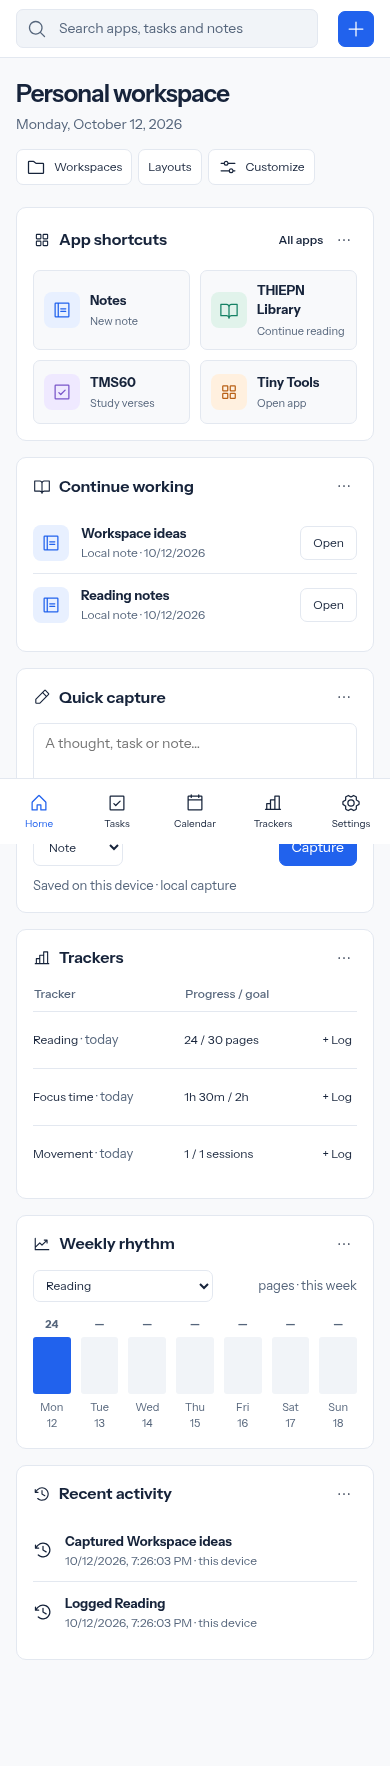
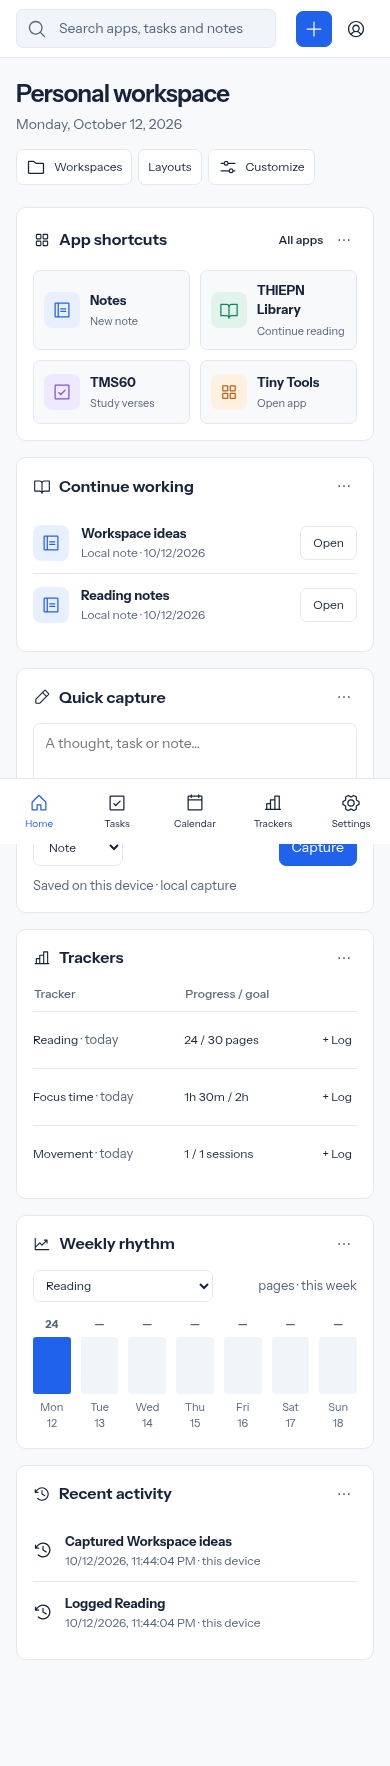
Preserve Library's trusted Home host with a private reading dialog

Changed region(s): [[0.7385, 0.0, 0.9538, 0.0311], [0.3692, 0.872, 0.4, 0.9343]]

diff --git a/tests/hub-reading-pilot/desktop.spec.ts b/tests/hub-reading-pilot/desktop.spec.ts
@@ -2,7 +2,7 @@ import {test,expect} from '@playwright/test';
 import {fixture,seed,join,connect,book} from './fixture';
 test('join is optional, creates no owner load; absent consent yields no reading metadata',async({page})=>{
  const f=await fixture(page);await expect(page.locator('[data-private-library]')).toBeHidden();
- expect(f.calls.some(c=>c.url.includes('/library/hub/bridge'))).toBe(false);expect(await page.evaluate(()=>(window as any).__opens)).toEqual([]);
+ expect(f.calls.some(c=>c.url.includes('/library/hub/bridge'))).toBe(false);expect(await page.evaluate(()=>(window as any).__opens.filter((name:string)=>name!=='thiepn-adaptive-workspace'))).toEqual([]);
  await join(page);expect(f.calls.some(c=>c.url.includes('/library/hub/bridge'))).toBe(false);
  await page.getByRole('button',{name:'Connect this browser',exact:true}).click();await expect(page.locator('[data-library-status]')).toContainText('Choose sharing');await expect(page.locator('[data-library-items]')).toBeEmpty();await expect(page.locator('[data-library-empty]')).toBeHidden();
 });
@@ -14,12 +14,12 @@ test('actual device metadata resumes the exact revision with no cloud calls, wri
  await page.setViewportSize({width:320,height:900});expect(await page.evaluate(()=>document.documentElement.scrollWidth)).toBeLessThanOrEqual(320);await page.locator('[data-library-items] a').first().focus();await expect(page.locator('[data-library-items] a').first()).toBeFocused();
  await page.addScriptTag({path:process.env.AXE_PATH||'/tmp/audit-tools/node_modules/axe-core/axe.min.js'});expect(await page.evaluate(async()=>{const r=await (window as any).axe.run(document,{runOnly:{type:'tag',values:['wcag2a','wcag2aa','wcag21aa','wcag22aa']}});return r.violations.map((v:any)=>({id:v.id,targets:v.nodes.map((n:any)=>n.target)}));})).toEqual([]);
  expect(f.calls.every(c=>c.method==='GET'&&new URL(c.url).origin==='https://thiepn.dev')).toBe(true);
- expect(await page.evaluate(()=>(window as any).__opens)).toEqual([]);expect(await page.evaluate(()=>JSON.stringify((window as any).__results))).not.toContain('SECRET');
+ expect(await page.evaluate(()=>(window as any).__opens.filter((name:string)=>name!=='thiepn-adaptive-workspace'))).toEqual([]);expect(await page.evaluate(()=>JSON.stringify((window as any).__results))).not.toContain('SECRET');
  expect(await page.evaluate(()=>Object.values(localStorage).join('')+Object.values(sessionStorage).join(''))).not.toContain(book.title);
 });
 test('ending, masking and reloading never restore a reading snapshot automatically',async({page})=>{
  await fixture(page);await seed(page);await connect(page);await page.getByRole('button',{name:'End pilot and clear this tab',exact:true}).click();await expect(page.locator('[data-library-items]')).toBeEmpty();await expect(page.locator('iframe')).toHaveCount(0);
- await connect(page);await page.getByRole('button',{name:'Hide Home',exact:true}).click();await page.getByRole('button',{name:'Show Home',exact:true}).click();await expect(page.locator('[data-private-library]')).toBeHidden();await expect(page.locator('[data-library-items]')).toBeEmpty();
+ await connect(page);await page.getByRole('button',{name:'Hide personal content',exact:true}).click();await page.getByRole('button',{name:'Show personal content',exact:true}).click();await expect(page.locator('[data-private-library]')).toBeHidden();await expect(page.locator('[data-library-items]')).toBeEmpty();
  await page.reload();await expect(page.locator('[data-private-library]')).toBeHidden();await expect(page.locator('iframe')).toHaveCount(0);
 });
 test('pause and configuration outage fail closed before the next owner read',async({page})=>{
@@ -27,7 +27,7 @@ test('pause and configuration outage fail closed before the next owner read',asy
  f.fail();await page.getByRole('button',{name:'Try reading pilot',exact:true}).click();await expect(page.locator('[data-reading-pilot-status]')).toContainText('unavailable or paused');await expect(page.locator('iframe')).toHaveCount(0);
 });
 test('late join and read controls cannot reopen or read after ending',async({page})=>{
- const f=await fixture(page);f.hold();await page.getByRole('button',{name:'Try reading pilot',exact:true}).click();await page.getByRole('button',{name:'Hide Home',exact:true}).click();f.release();await page.getByRole('button',{name:'Show Home',exact:true}).click();await expect(page.locator('[data-private-library]')).toBeHidden();await expect(page.locator('iframe')).toHaveCount(0);
+ const f=await fixture(page);f.hold();await page.getByRole('button',{name:'Try reading pilot',exact:true}).click();await page.getByRole('button',{name:'Hide personal content',exact:true}).click();f.release();await page.getByRole('button',{name:'Show personal content',exact:true}).click();await expect(page.locator('[data-private-library]')).toBeHidden();await expect(page.locator('iframe')).toHaveCount(0);
  await seed(page);await connect(page);const before=f.calls.filter(c=>c.url.includes('/reading-pilot.json')).length;f.hold();await page.getByRole('button',{name:'Connect this browser',exact:true}).click();await expect.poll(()=>f.calls.filter(c=>c.url.includes('/reading-pilot.json')).length).toBe(before+1);
  await page.getByRole('button',{name:'End pilot and clear this tab',exact:true}).click();await join(page);const response=page.waitForResponse(r=>new URL(r.url()).pathname==='/reading-pilot.json');f.release();await (await response).finished();await page.evaluate(()=>new Promise<void>(resolve=>requestAnimationFrame(()=>requestAnimationFrame(()=>resolve()))));await expect(page.locator('[data-private-library]')).toBeVisible();await expect(page.locator('[data-library-items]')).toBeEmpty();await expect(page.locator('iframe')).toHaveCount(0);
 });
@@ -51,4 +51,7 @@ test('connection controls stay busy during a delayed check and exit cancels it',
  await page.getByRole('button',{name:'End pilot and clear this tab',exact:true}).click();await join(page);
  await expect(page.locator('[data-library-connect]')).toBeEnabled();f.release();
  await expect(page.locator('[data-library-items]')).toBeEmpty();await expect(page.locator('iframe')).toHaveCount(0);
+});
+test('closing the reading dialog clears its snapshot and owner frame',async({page})=>{
+ await fixture(page);await seed(page);await connect(page);await page.locator('[data-account-dialog] [data-action=close-account]').click();await expect(page.locator('iframe')).toHaveCount(0);await expect(page.locator('[data-library-items]')).toBeEmpty();await page.locator('.ws-topbar [data-action=account]').click();await expect(page.locator('[data-private-library]')).toBeHidden();await expect(page.locator('[data-library-items]')).toBeEmpty();
 });

diff --git a/src/scripts/portal-library.ts b/src/scripts/portal-library.ts
@@ -4,6 +4,7 @@ import { HubLibrarySession, libraryContinueUrl } from '../lib/hub-library-sessio
 import type { Operation } from '../lib/providers/types';
 const root = document.querySelector<HTMLElement>('[data-private-library]');
 if (root) {
+  const hostDialog = root.closest<HTMLDialogElement>('dialog');
   const pilot = root.dataset.libraryPilot === 'v1';
   const pilotRoot = root.closest<HTMLElement>('[data-reading-pilot]');
   const join = pilotRoot?.querySelector<HTMLButtonElement>('[data-reading-pilot-join]');
@@ -12,7 +13,7 @@ if (root) {
   let pending: symbol | undefined;
   let joined = false, pilotTimer: ReturnType<typeof setInterval> | undefined;
   const eligible = !pilot || READING_PILOT_MOBILE_ENABLED || desktopReadingPilot(navigator.userAgent, navigator.platform, navigator.maxTouchPoints);
-  const available = () => !root!.hidden && !document.hidden && (!pilot || (joined && eligible && !pilotRoot?.hidden));
+  const available = () => (!hostDialog || hostDialog.open) && !root!.hidden && !document.hidden && (!pilot || (joined && eligible && !pilotRoot?.hidden));
   function endPilot(message = 'Pilot ended. This tab’s reading snapshot was cleared. To return, try the reading pilot and connect this browser again.') {
     if (!pilot) return; joined = false; clearInterval(pilotTimer); pilotTimer = undefined; root!.hidden = true;
     join!.hidden = false; end!.hidden = true; pilotStatus!.textContent = message; clear();
@@ -54,7 +55,7 @@ if (root) {
     erase('Checking Library progress…'); const epoch = generation; controller = new AbortController();
     try {
       const envelope = await session.read(operation, controller.signal, query);
-      if (epoch !== generation || root!.hidden || document.hidden) return;
+      if (epoch !== generation || !available()) return;
       if (!['ready','empty'].includes(envelope.status) || !envelope.data) throw new Error('Unavailable');
       if(import.meta.env.PUBLIC_HUB_WORKFLOWS_PRIVATE==='staged-v1')integratedWorkflows.publish(envelope);
       for (const item of envelope.data.items) {
@@ -84,7 +85,7 @@ if (root) {
     clear('Checking your Library sharing choices…', true); const epoch = generation; controller = new AbortController(); connect.disabled = true;
     try {
       const consent = await session.connect(controller.signal);
-      if (epoch !== generation || root!.hidden || document.hidden) return;
+      if (epoch !== generation || !available()) return;
       permissions = new Set(consent.permissions.filter(p => !pilot || p === 'summary' || p === 'continue')); controls();
       const initial = permissions.has('summary') ? 'summary' : permissions.has('continue') ? 'continue' : null;
       if (initial) { radios.forEach(r => { r.checked = r.value === initial; }); await load(initial); }
@@ -102,15 +103,16 @@ if (root) {
   window.addEventListener('pageshow', event => { if (event.persisted) { clear(); if (pilot) endPilot(); } });
   document.addEventListener('visibilitychange', () => { if (document.hidden) { clear(); if (pilot) endPilot('Reading cleared when you left Home. Welcome back: try the reading pilot, then connect this browser for fresh progress.'); } controls(); });
   new MutationObserver(() => { if (root!.hidden) clear(); controls(); }).observe(root, { attributes: true, attributeFilter: ['hidden'] });
+  if (hostDialog) new MutationObserver(() => { if (!hostDialog.open) { clear(); if (pilot) endPilot(); } controls(); }).observe(hostDialog, { attributes:true, attributeFilter:['open'] });
   if (pilot) {
     join!.disabled = !eligible;
     if (!eligible) pilotStatus!.textContent = 'This pilot currently supports desktop browsers. Mobile reading remains available in Library.';
     join!.addEventListener('click', () => void (async () => {
-      if (!eligible || pilotRoot?.hidden || document.hidden) return;
+      if (!eligible || pilotRoot?.hidden || document.hidden || (hostDialog && !hostDialog.open)) return;
       join!.disabled = true; const joinEpoch = generation;
       try {
         if (!await checkReadingPilot(AbortSignal.timeout(2000))) throw new Error('Paused');
-        if (joinEpoch !== generation || pilotRoot?.hidden || document.hidden) return;
+        if (joinEpoch !== generation || pilotRoot?.hidden || document.hidden || (hostDialog && !hostDialog.open)) return;
         joined = true; root!.hidden = false; join!.hidden = true; end!.hidden = false;
         pilotStatus!.textContent = 'Joined for this tab. Choose sharing in Library, then connect this browser.';
         pilotTimer = setInterval(() => { void verifyPilot(); }, 30000); controls();

diff --git a/tests/hub-library/session.spec.ts b/tests/hub-library/session.spec.ts
@@ -31,7 +31,7 @@ async function fixture(page: Page) {
     if (fs.existsSync(file)) return route.fulfill({ path: file, contentType: mime(file) });
     return route.fulfill({ status: 404, body: 'Fictional fixture: unavailable' });
   });
-  await page.goto(HUB+'/home/connections/');
+  await page.goto(HUB+'/home/');await page.locator('.ws-topbar [data-action=account]').click();
   await expect(page.locator('[data-private-library]')).toBeVisible();
   return { calls, hold: () => { hold = true; }, release: () => { hold = false; release(); } };
 }
@@ -54,7 +54,7 @@ async function connect(page: Page) { await page.getByRole('button',{name:'Connec
 test('no automatic owner load or reading-storage access; connection without consent reads nothing', async ({page}) => {
   const f = await fixture(page);
   expect(f.calls.some(u => u.includes('/library/hub/bridge'))).toBe(false);
-  expect(await page.evaluate(() => (window as any).__opens)).toEqual([]);
+  expect(await page.evaluate(() => (window as any).__opens.filter((name:string)=>name!=='thiepn-adaptive-workspace'))).toEqual([]);
   await page.getByRole('button',{name:'Connect this browser',exact:true}).click();
   await expect(page.locator('[data-library-status]')).toContainText('Choose sharing');
   expect(await page.evaluate(() => (window as any).__results)).toEqual([]);
@@ -85,13 +85,13 @@ test('cross-tab revocation immediately removes previous titles and frame', async
 });
 test('Hide Home clears results; Show Home and reload do not restore them', async ({page}) => {
   await fixture(page); await seed(page); await connect(page);
-  await page.getByRole('button',{name:'Hide Home',exact:true}).click(); await expect(page.locator('[data-library-items]')).toBeEmpty();
-  await page.getByRole('button',{name:'Show Home',exact:true}).click(); await expect(page.locator('[data-library-items]')).toBeEmpty();
+  await page.getByRole('button',{name:'Hide personal content',exact:true}).click(); await expect(page.locator('[data-library-items]')).toBeEmpty();
+  await page.getByRole('button',{name:'Show personal content',exact:true}).click(); await expect(page.locator('[data-library-items]')).toBeEmpty();
   await page.reload(); await expect(page.locator('[data-library-items]')).toBeEmpty(); await expect(page.locator('iframe')).toHaveCount(0);
 });
 test('Hide Home while the owner is loading cancels late connection', async ({page}) => {
   const f = await fixture(page); await seed(page); f.hold(); await page.getByRole('button',{name:'Connect this browser',exact:true}).click();
-  await page.getByRole('button',{name:'Hide Home',exact:true}).click(); f.release(); await expect(page.locator('iframe')).toHaveCount(0); await expect(page.locator('[data-library-items]')).toBeEmpty();
+  await page.getByRole('button',{name:'Hide personal content',exact:true}).click(); f.release(); await expect(page.locator('iframe')).toHaveCount(0); await expect(page.locator('[data-library-items]')).toBeEmpty();
 });
 test('unsupported future DB schema is unavailable, not an empty library', async ({page}) => {
   await fixture(page); await seed(page, grant.permissions, false, 10); await page.getByRole('button',{name:'Connect this browser',exact:true}).click();
@@ -134,7 +134,7 @@ test('identity transition erases device results without transferring consent to 
 test('absent native databases are empty without persisting new databases', async ({page}) => {
   await fixture(page); await page.evaluate(({KEY,grant})=>localStorage.setItem(KEY,JSON.stringify(grant)),{KEY,grant});
   await page.getByRole('button',{name:'Connect this browser',exact:true}).click(); await expect(page.locator('[data-library-status]')).toContainText('No matching saved progress');
-  expect(await page.evaluate(async()=> (await indexedDB.databases()).map(db=>db.name))).toEqual([]);
+  expect(await page.evaluate(async()=> (await indexedDB.databases()).map(db=>db.name).filter(name=>name!=='thiepn-adaptive-workspace'))).toEqual([]);
 });
 test('native progress events erase the prior snapshot and require reconnection', async ({page}) => {
   await fixture(page); await seed(page); await connect(page);

diff --git a/src/scripts/workspace-home.ts b/src/scripts/workspace-home.ts
@@ -16,6 +16,7 @@ const root = document.querySelector<HTMLElement>('[data-workspace]');
 if (root)
     void setup(root);
 async function setup(root: HTMLElement) {
+    const openReading = location.hash === '#reading';
     if (location.search || location.hash) history.replaceState(null,'',location.pathname);
     const $ = <T extends HTMLElement = HTMLElement>(selector: string) => root.querySelector<T>(selector)!;
     const apps = JSON.parse($('[data-workspace-apps]').textContent ?? '[]') as AppShortcut[];
@@ -31,6 +32,16 @@ async function setup(root: HTMLElement) {
     let queue = Promise.resolve();
     const dialog = $<HTMLDialogElement>('[data-workspace-dialog]');
     const form = $<HTMLFormElement>('[data-workspace-form]');
+    const account = $<HTMLDialogElement>('[data-account-dialog]');
+    let readingOpened = false;
+    function syncReadingPanels() {
+        if (account.open) readingOpened = true;
+        const hidden = !state || privacyHeld || state.preferences.hidden || (!account.open && readingOpened);
+        root.querySelectorAll<HTMLElement>('[data-reading-shell]').forEach(shell => { shell.hidden = hidden; shell.querySelectorAll<HTMLElement>('[data-home-personal]').forEach(panel => panel.hidden = hidden); });
+        const control = root.querySelector<HTMLElement>('[data-connection-privacy]');
+        if (control) control.textContent = privacyHeld || state?.preferences.hidden ? 'Show personal content' : 'Hide personal content';
+    }
+    account.addEventListener('close', syncReadingPanels);
     let submitForm: ((data: FormData) => Promise<void> | void) | null = null;
     let observer: ResizeObserver | null = null;
     let formReturn: { element: HTMLElement; action: string; id: string; widget: string; epoch: number } | null = null;
@@ -228,6 +239,7 @@ async function setup(root: HTMLElement) {
         else
             $('[data-workspace-content]').innerHTML = fullContent();
         renderPlanner();
+        syncReadingPanels();
         root.querySelectorAll<HTMLElement>('.ws-icon-button[data-action=configure-widget]').forEach(b => b.setAttribute('aria-label', 'Configure widget'));
         root.querySelectorAll<HTMLElement>('[data-action=delete-task]').forEach(b => b.setAttribute('aria-label', 'Task actions'));
         root.querySelectorAll<HTMLElement>('[data-action=edit-event]').forEach(b => b.setAttribute('aria-label', 'Edit event'));
@@ -589,7 +601,8 @@ async function setup(root: HTMLElement) {
             return;
         }
         if (action === 'account') {
-            $<HTMLDialogElement>('[data-account-dialog]').showModal();
+            account.showModal();
+            syncReadingPanels();
             return;
         }
         if (action === 'search') {
@@ -1229,6 +1242,7 @@ async function setup(root: HTMLElement) {
         render();
     } }, 30000);
     await loadIdentity(hubIdentity);
+    if (openReading && view === 'home') { account.showModal(); syncReadingPanels(); }
     if ('serviceWorker' in navigator && !import.meta.env.DEV) { void navigator.serviceWorker.register('/home/workspace-sw.js',{scope:'/home/'}).catch(()=>{ /* Local records still work; do not claim offline shell availability. */ }); }
 
 }

diff --git a/src/styles/workspace.css b/src/styles/workspace.css
@@ -123,3 +123,11 @@
 .ws-page-heading>div:first-child{min-width:0;flex:1;}
 @media (max-width:767px){.ws-page-heading>div:first-child{flex:1 1 100%;}.ws-page-heading .ws-toolbar{width:100%;flex-wrap:wrap;}}
 [data-theme=dark] .ws-task.high time{color:#ffc087;}
+.ws-account-tools{display:flex;gap:10px;flex-wrap:wrap;margin:16px 0;}
+.ws [data-reading-shell] .portal-daily{border-top:1px solid var(--ws-line);padding:18px 0;margin-top:16px;}
+.ws [data-reading-shell] p,.ws [data-reading-shell] ol{margin:10px 0;}
+.ws [data-reading-shell] .portal-muted{color:var(--ws-muted);font-size:13px;}
+.ws [data-reading-shell] .portal-button{display:inline-flex;align-items:center;min-height:44px;padding:7px 12px;border:1px solid var(--ws-line);border-radius:7px;background:var(--ws-surface);margin:4px 6px 4px 0;}
+.ws [data-reading-shell] input{background:var(--ws-surface);border:1px solid var(--ws-line);padding:7px;}
+.ws [data-reading-shell] fieldset{border:1px solid var(--ws-line);padding:12px;margin:12px 0;}
+@media(max-width:767px){.ws-topbar-actions>.ws-icon-button:last-child{display:inline-flex;}}

diff --git a/tests/hub-reading-pilot/fixture.ts b/tests/hub-reading-pilot/fixture.ts
@@ -22,7 +22,7 @@ export async function fixture(page:Page){
   if(fs.existsSync(f)&&fs.statSync(f).isDirectory())f=path.join(f,'index.html');
   if(fs.existsSync(f))return route.fulfill({path:f,contentType:mime(f)});return route.fulfill({status:404});
  });
- await page.goto(HUB+'/home/connections/');return{calls,pause:()=>{paused=true;},fail:()=>{fail=true;},hold:()=>{hold=true;},release:()=>{hold=false;release();}};
+ await page.goto(HUB+'/home/');await page.locator('.ws-topbar [data-action=account]').click();return{calls,pause:()=>{paused=true;},fail:()=>{fail=true;},hold:()=>{hold=true;},release:()=>{hold=false;release();}};
 }
 export async function join(page:Page){await page.getByRole('button',{name:'Try reading pilot',exact:true}).click();await expect(page.locator('[data-private-library]')).toBeVisible();}
 export async function connect(page:Page){await join(page);await page.getByRole('button',{name:'Connect this browser',exact:true}).click();await expect(page.locator('[data-library-items]')).toContainText(book.title);}

diff --git a/docs/workspace/implementation.md b/docs/workspace/implementation.md
@@ -8,7 +8,7 @@ Local persistence uses an identity-scoped IndexedDB snapshot with atomic optimis
 
 Export/import includes bounded schema validation and a count/mode preview. Unsupported future versions stay untouched. Storage failures retain in-memory content with an Unsaved indicator. Multi-tab conflicts preserve changes and require recovery rather than silently overwriting. Privacy can be held per tab. The offline worker caches public workspace shells/static assets only; auth, connections, query requests and provider APIs are excluded.
 
-Existing owner handoffs and feature-gated integrations remain at `/home/connections/`; existing Apps, search and launch routes remain compatible. Release policy checks the embedded app registry and every new private workspace route.
+Existing owner handoffs and feature-gated cloud integrations remain at `/home/connections/`. Device Library reading stays inside the Home account/connection dialog because the immutable owner bridge trusts `/home/` specifically. Closing or masking this dialog clears its RAM-only snapshot and frame; reopening requires fresh opt-in. Existing Apps, search and launch routes remain compatible. Release policy checks the embedded app registry and every new private workspace route.
 
 ## Validation
 
@@ -17,6 +17,8 @@ Existing owner handoffs and feature-gated integrations remain at `/home/connecti
 - Focused Chromium production scenarios: 66 passing, including offline reload, scope changes, conflicts and recovery.
 - Full Chromium studio suite: 195 passing. The final focus-return and preset-sizing changes additionally pass targeted checks; populated light/dark axe checks report zero violations.
 - Build, registry/source validation, performance budget, release qualification, release rejection fixtures and served-artifact smoke fixtures passed.
+- Pinned Library owner: 18 local Chromium scenarios passed; pinned reading-pilot owner: 19 local Chromium/Android scenarios passed, including dialog close and 44px reading controls.
+- Public Quality on the prior UI candidate: 583 browser scenarios passed across all three engines; the integrated reading-host candidate is being requalified.
 - Firefox/WebKit and GitHub CI status must be recorded separately; local host startup limits do not establish cross-browser acceptance. The local Firefox workspace scenarios passed, with its populated accessibility and midnight checks verified separately; an existing Byte external-image failure remains in that broader local run.
 
 ## Release

diff --git a/design-qa.md b/design-qa.md
@@ -13,6 +13,8 @@ Viewed the approved reference and actual edit-mode screenshot together, then ins
 
 Public app catalogue remains on Apps. Continue and activity contain actual local records; provider history is not fabricated. Quick capture uses native form controls, charts have text summaries, and native dialogs trap focus. Keyboard and pointer layout editing, reduced motion, light/dark accessibility and responsive reflow are covered by browser scenarios.
 
+Reading integration: the existing device-only reading flow remains at its owner-approved Home host, in the connection dialog. Desktop/Android owner scenarios verify consent, privacy, lifecycle cleanup and touch controls.
+
 Known limits: desktop content can scroll; mobile uses dedicated Tasks/Calendar routes instead of retaining the right column. No cloud browser, physical-device or production-deployment acceptance is claimed. WebKit requires missing host libraries locally and remains a CI qualification requirement.
 
 final result: passed
